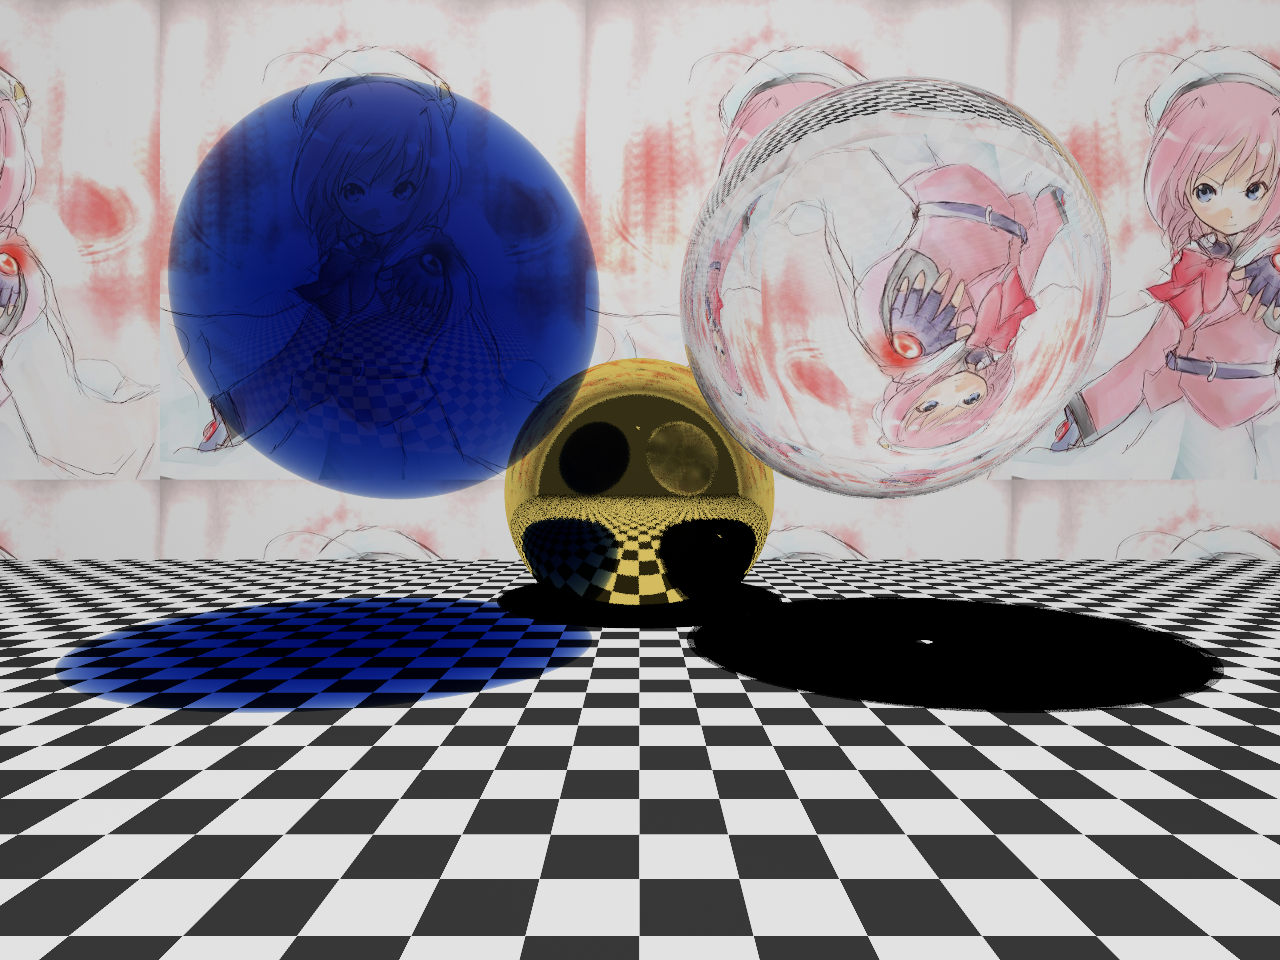
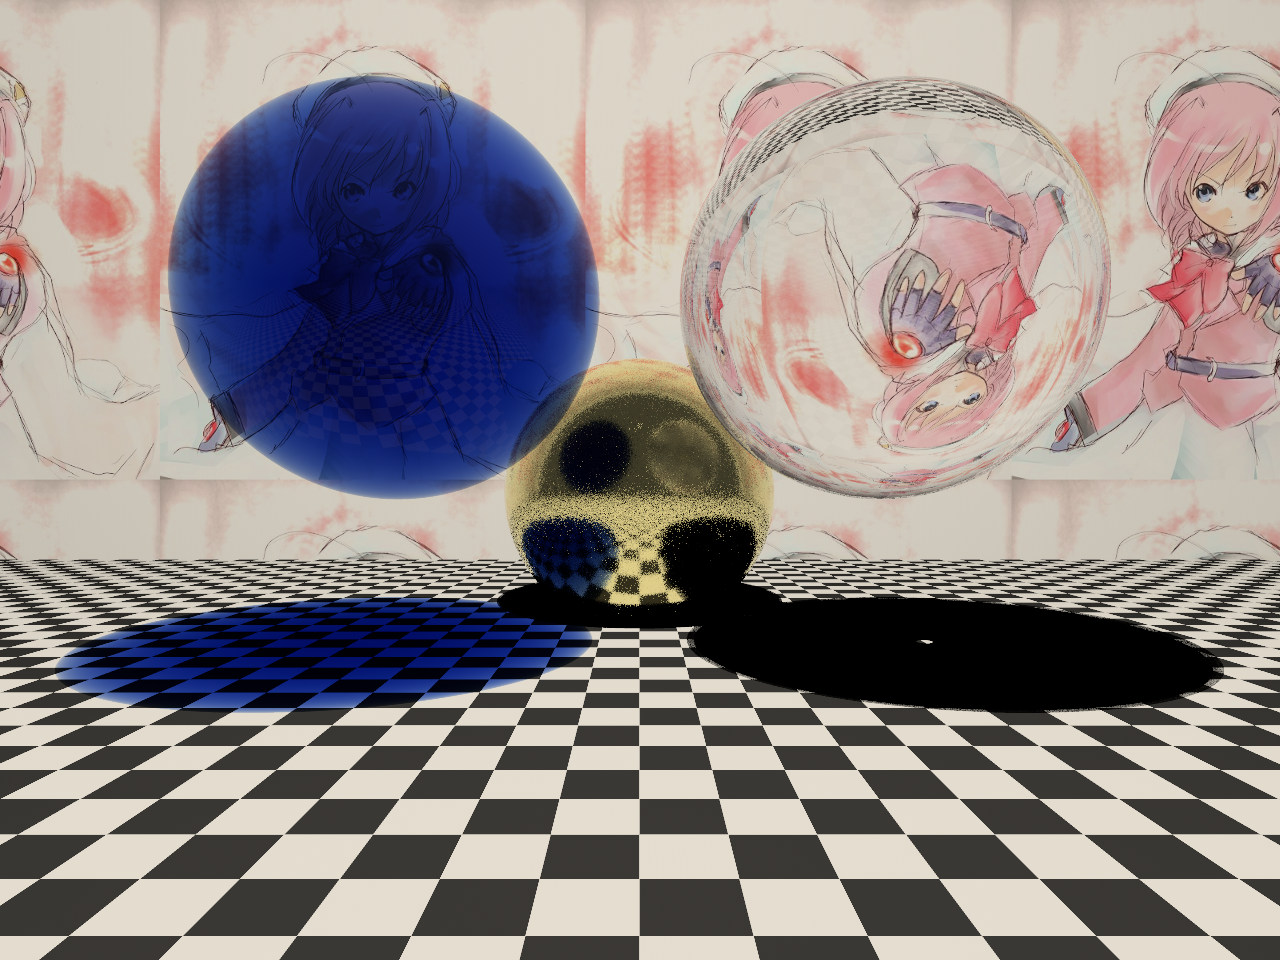
Implement metallic material for gold sphere, warm up lights slightly to compensate

Changed region(s): [[0.375, 0.375, 0.625, 0.6562]]

diff --git a/raytrace.cpp b/raytrace.cpp
@@ -18,6 +18,16 @@
 #include <cstdio>
 #include <thread>
 
+// Exact conductor Fresnel for one wavelength channel (incident medium n=1).
+// Rs = (n²+k²-2n·cosθ+cos²θ)/(n²+k²+2n·cosθ+cos²θ)
+// Rp = ((n²+k²)cos²θ-2n·cosθ+1)/((n²+k²)cos²θ+2n·cosθ+1)
+static real conductor_fresnel(real cos_theta, real n, real k) {
+    real n2k2 = n*n + k*k, cos2 = cos_theta*cos_theta;
+    real Rs = (n2k2 - 2.f*n*cos_theta + cos2) / (n2k2 + 2.f*n*cos_theta + cos2);
+    real Rp = (n2k2*cos2 - 2.f*n*cos_theta + 1.f) / (n2k2*cos2 + 2.f*n*cos_theta + 1.f);
+    return 0.5f * (Rs + Rp);
+}
+
 // Sample a microfacet normal from the GGX (Trowbridge-Reitz) NDF.
 // Returns a half-vector in world space; caller should verify the reflected
 // direction stays above the surface (dot(reflect(rd,H), N) > 0).
@@ -157,7 +167,9 @@ color raytracer::color_of_primitive_at(const ray &r, world_distance dist, primit
 		}
 	}
 
-	if (pi->mat.dielectric) {
+	if (pi->mat.metallic) {
+		reflect_weight = 1.f;
+	} else if (pi->mat.dielectric) {
 		reflect_weight = fresnelR(tray, N, exiting_medium->refractive_index, entering_medium->refractive_index);
 		refract_weight = 1.f - reflect_weight;
 	} else {
@@ -176,7 +188,15 @@ color raytracer::color_of_primitive_at(const ray &r, world_distance dist, primit
 		ray reflect_ray(p + Nr * EPSILON, r.dir.reflect(Nr), false);
 		if (verbose_log) printf("%d: reflection\n", index);
 		reflected = trace(reflect_ray, nullptr, medium, nullptr, nullptr, index, backtracking);
-		if (!pi->mat.clear_reflect) reflected *= local_color;
+		if (pi->mat.metallic) {
+			real cos_theta = fabsf(dot(r.dir, Nr));
+			reflected *= color(
+				conductor_fresnel(cos_theta, pi->mat.conductor_n.r, pi->mat.conductor_k.r),
+				conductor_fresnel(cos_theta, pi->mat.conductor_n.g, pi->mat.conductor_k.g),
+				conductor_fresnel(cos_theta, pi->mat.conductor_n.b, pi->mat.conductor_k.b));
+		} else if (!pi->mat.clear_reflect) {
+			reflected *= local_color;
+		}
 		// Dielectric Phong highlight via reflected channel: the mirror ray rarely hits
 		// the 0.2-radius light sphere, so add the Phong specular lobe here instead.
 		// Gets correctly Fresnel-scaled (~4% at normal incidence, 100% at grazing)

diff --git a/main.cpp b/main.cpp
@@ -80,17 +80,18 @@ static void checkerboard_scene(scene &sc)
 
 	// Light: tiny bright sphere — acts as area light via backtracking caustics hack
 	auto p4 = std::make_unique<sphere>(vector3(0, 10, -1), .2f);
-	set_color(p4.get(), color4(5,5,5));
+	set_color(p4.get(), color4(5.25f, 4.9f, 4.25f));  // subtle warm tint
 	p4->light = true;
 	sc.add(std::move(p4));
 
-	// Rear sphere: gold — highly reflective, tinted reflection, minimal diffuse
+	// Rear sphere: gold — conductor Fresnel with GGX roughness, no diffuse
 	auto p5 = std::make_unique<sphere>(vector3(0, -.2f, 7), 2);
-	set_color(p5.get(), color4(.85f,.65f,.15f));  // gold: warm yellow, slightly orange
-	p5->mat.diffuse = .05f;
-	p5->mat.reflect = .9f;
-	p5->mat.clear_reflect = false;  // reflection tinted by gold color
-	p5->mat.roughness = 0.03f;      // 3% roughness — slightly blurred reflections
+	p5->mat.metallic      = true;
+	p5->mat.roughness     = 0.03f;
+	p5->mat.diffuse       = 0.f;
+	// Gold IOR (RGB ≈ 700/550/450 nm): values from Palik "Handbook of Optical Constants"
+	p5->mat.conductor_n   = color(0.17f, 0.35f, 1.5f);
+	p5->mat.conductor_k   = color(3.1f,  2.7f,  1.9f);
 	sc.add(std::move(p5));
 }
 
@@ -104,7 +105,7 @@ int main(int argc, char * const argv[])
 
 	raytracer tr;
 	checkerboard_scene(tr.sc);
-	tr.background = color(0.28f, 0.30f, 0.35f);  // cool overcast sky grey
+	tr.background = color(0.295f, 0.295f, 0.30f);  // near-neutral, faint cool
 
 	cam.origin = point3(0, 0, -5);
 	cam.screen.origin = point3(0, 0, 0);

diff --git a/scene.h b/scene.h
@@ -34,11 +34,15 @@ struct surface
 	real reflect, diffuse, specular_exp, roughness;
 	bool clear_reflect;
 	bool dielectric; // dielectrics' reflectivity changes depending on the viewing angle
+	bool metallic;   // conductor: reflection colored by per-channel Fresnel, no diffuse
+	color conductor_n, conductor_k; // complex IOR for conductor Fresnel (used when metallic)
 
 	texture_placement textures[16];
 	int texcount;
 
-	surface() : reflect(0.f), diffuse(1), specular_exp(40.f), roughness(0.f), clear_reflect(true), dielectric(false), texcount(0) {}
+	surface() : reflect(0.f), diffuse(1), specular_exp(40.f), roughness(0.f),
+	            clear_reflect(true), dielectric(false), metallic(false),
+	            conductor_n(0.f), conductor_k(0.f), texcount(0) {}
 	surface(const surface &) = delete;
 	surface &operator=(const surface &) = delete;
 
